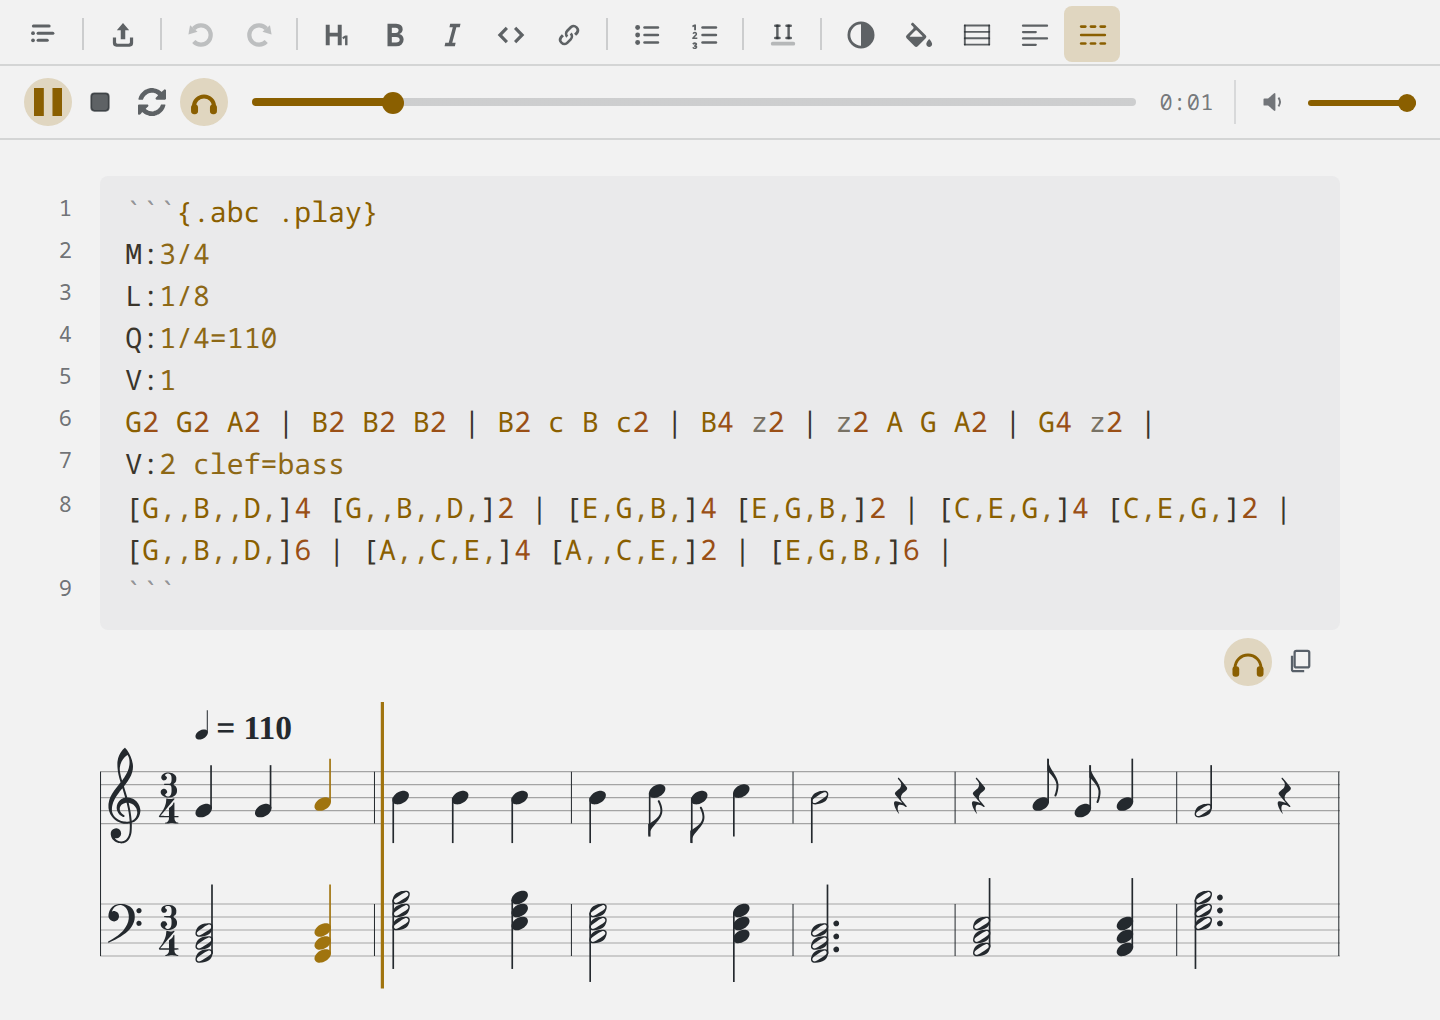
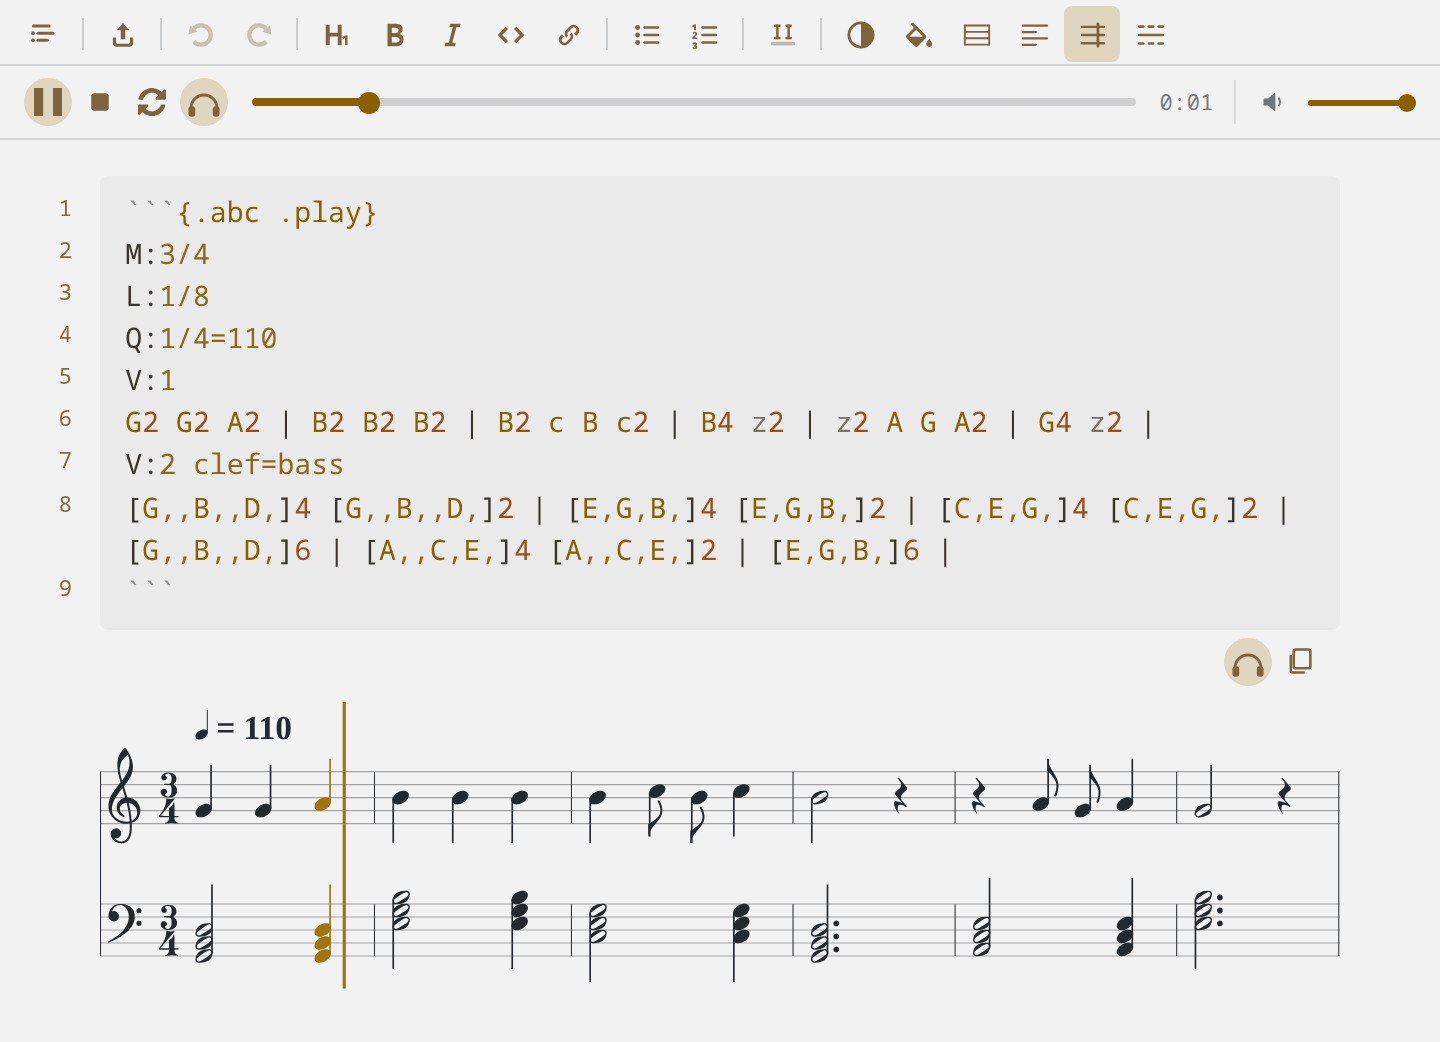
docs: Retake the two screenshots of the editor
Both were taken before the brass chrome and the numbers in the margin, and the
dark one before MDM Dark stood on Dark 2026's ground, so it showed the warm
olive the fallback used to carry. They are made from the fixtures that have
sat beside them since they were first taken, docs/eq_staff.mdm and
docs/staff_sound.mdm, so what changed is the editor and not the document.

Drawn by loading tests/webview/harness.html in Chrome rather than by capturing
a VS Code window: that page is the webview as extension.js builds it, loading
the same media/main.js and media/style.css, and the editor's font stack is
written into the stylesheet rather than inherited from VS Code, so the drawing
is the webview's own. Neither picture ever carried any VS Code chrome.

diff --git a/vscode-mdm/README.md b/vscode-mdm/README.md
@@ -16,7 +16,7 @@ equations, code, scores and player. Download it from the [raw file](https://raw.
 anywhere with the `.mdm` extension and open it in VS Code: it comes up
 in this editor.
 
-![An equation and a score rendered in the editor, dark side](https://raw.githubusercontent.com/alpelito7/markdown_music/main/vscode-mdm/docs/screenshot-dark.png)
+![An equation and a score rendered in the editor on the dark side, with the numbers of the source lines drawn in brass down the margin beside them](https://raw.githubusercontent.com/alpelito7/markdown_music/main/vscode-mdm/docs/screenshot-dark.png)
 
 ## How it edits
 
@@ -65,7 +65,7 @@ extension, so playback touches no network. A caret in the block opens its ABC
 above the engraving, and while a tune plays a brass cursor glides across the
 score and the notes light up under it as they sound, every voice of them:
 
-![A duet playing with its ABC source open above the engraving: the player bar across the top of the toolbar, under the row of buttons, with its pause button, its lit headphones and the played half of its progress in brass; below, the brass cursor standing across both staves, the two notes it has just reached lit in brass under it, one on each staff, and the lit headphones of the block that is sounding](https://raw.githubusercontent.com/alpelito7/markdown_music/main/vscode-mdm/docs/screenshot-player.png)
+![A duet playing with its ABC source open above the engraving: the player bar across the top of the toolbar, under the row of buttons, with its pause button, its lit headphones and the played half of its progress in brass, and the lit follow toggle at the right of the button row; below, the brass cursor standing across both staves, the two notes it has just reached lit in brass under it, one on each staff, and the lit headphones of the block that is sounding](https://raw.githubusercontent.com/alpelito7/markdown_music/main/vscode-mdm/docs/screenshot-player.png)
 
     ```{.abc .play}
     X:1
